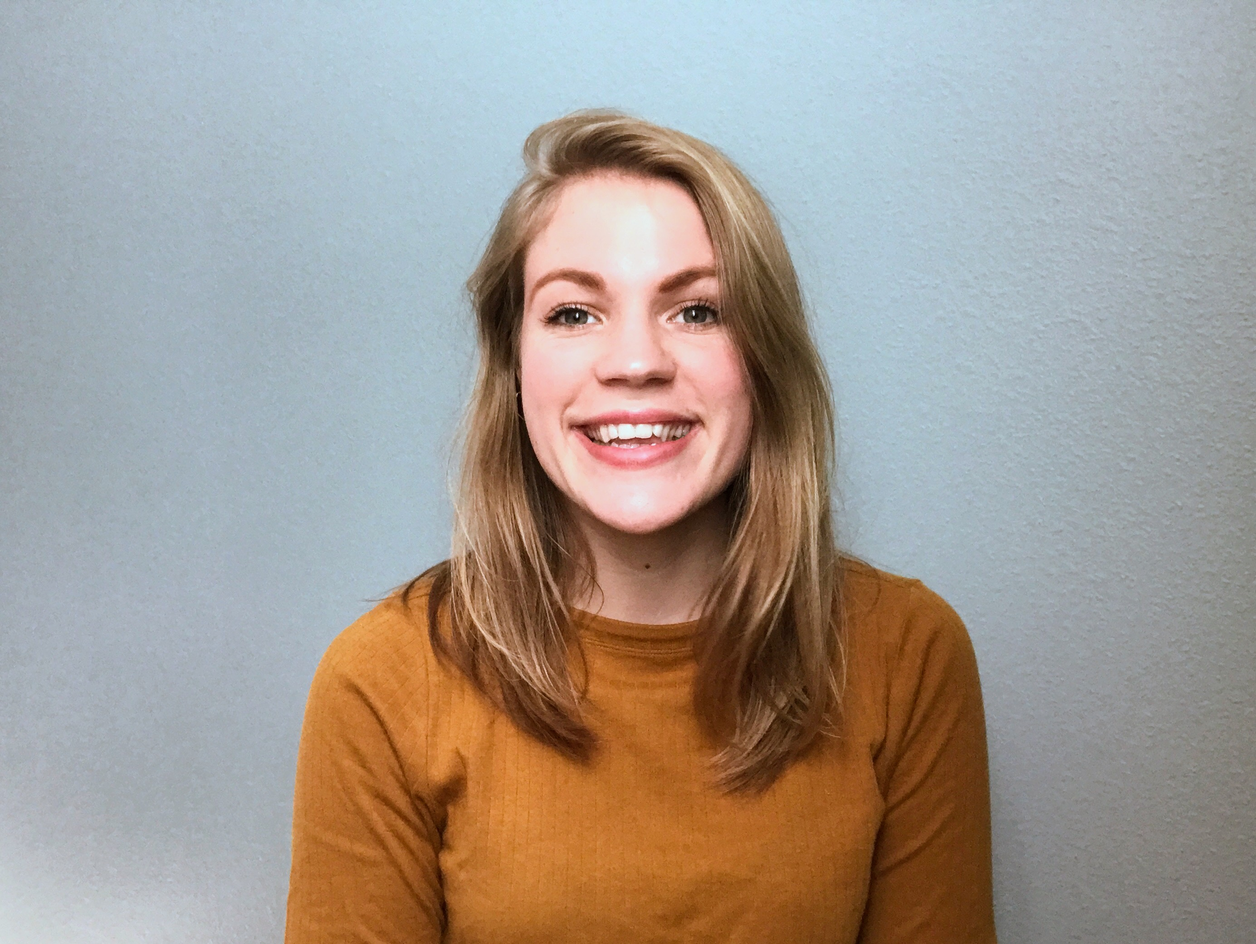
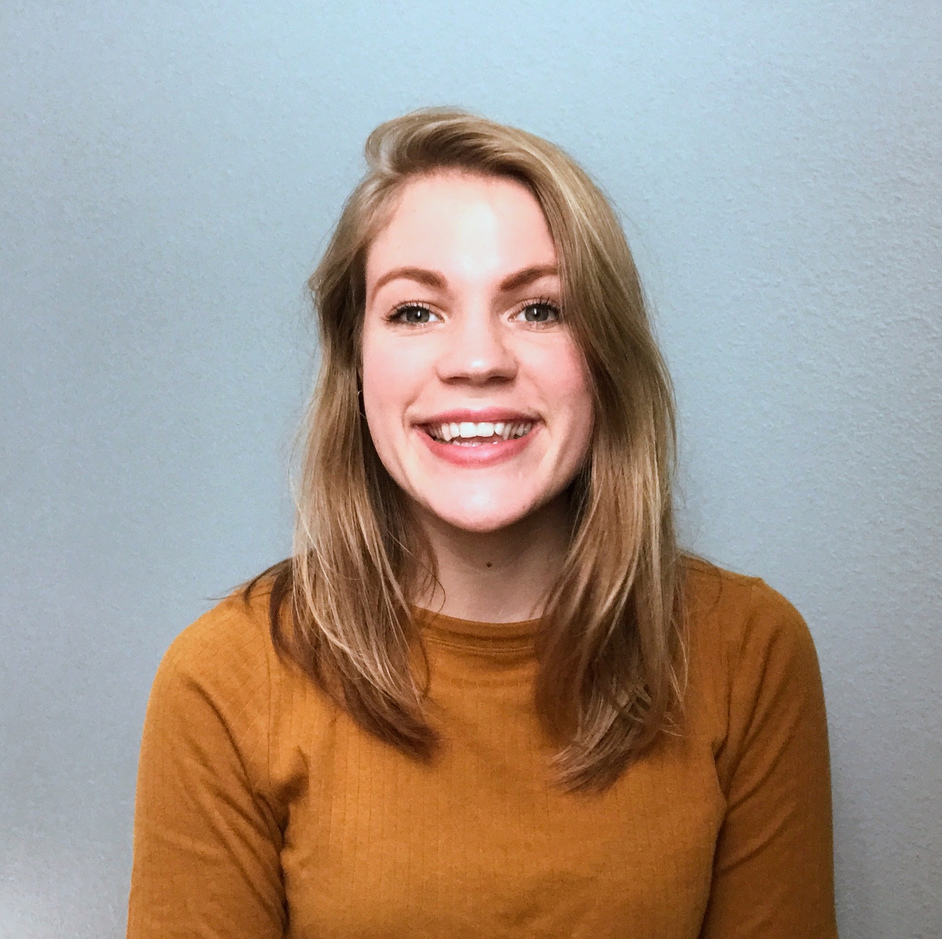
Updates to HTML/CSS and Photo

diff --git a/index.html b/index.html
@@ -10,19 +10,25 @@
             <h1>Hi! HELLO! Hi!</h1>
         </header>
         
-        <img src="img/IMG-9509.JPG" alt="Photo of Jessica" />
+        
 
-        <h2>Jessica Lovell</h2>
-        <h3>Seattle, WA</h3>
-        <p>jsdhvkjnv iha lsdkhvhvjdnvjhd kjvifvdfvkajndv  kjdsnjndvcnv advkjdn vkjadhvjdnv kmasdn vkjfnkvjldfkvj words here words here words here blah blah blah blah.</p>
-
-        <div class="testimonials">
-            <ol>
-                <li>Nice things about jessica.</li>
-                <li>Even nicer things about jessica.</li>
-                <li>Jessica is the sweetest person I know, and the best at sharing. --Jessica's mom</li>
+        <article>
+                <hgroup>
+            <img src="img/IMG-9509.JPG" alt="Photo of Jessica" />
+            <h2>Jessica Lovell</h2>
+                <h3>Seattle, WA</h3>
+            </hgroup>
+            
+            <p>jsdhvkjnv iha lsdkhvhvjdnvjhd kjvifvdfvkajndv  kjdsnjndvcnv advkjdn vkjadhvjdnv kmasdn vkjfnkvjldfkvj words here words here words here blah blah blah blah.</p>
+            
+            <div class="testimonials">
+                <ol>
+                    <li>"Jessica is amazing. But I guess this isn’t an announcement since it’s obvious to anyone around her." </li>
+                    <li>Even nicer things about jessica. Even nicer things about jessica. Even nicer things about jessica. Even nicer things about jessica.</li>
+                    <li>Jessica is the sweetest person I know, and the best at sharing. Jessica is the sweetest person I know, and the best at sharing. Jessica is the sweetest person I know, and the best at sharing. --Jessica's mom</li>
                 </ol>
-        </div>
+            </div>
+        </article>
  
 
     <!-- <script src="js/app.js" type="text/javascript"> </script> -->

diff --git a/css/style.css b/css/style.css
@@ -1,27 +1,52 @@
 body {
-    color: whitesmoke;
-    background: rgb(177, 238, 188);
-    font-family: Georgia, Times, serif;
-    line-height: 1.4em;
-    margin: 30px auto;
-    display: block;
-}
-header, h1 {
-    height: 75px;
-    font-size: 40px;
-}
-section, article, hgroup, h2, h3, h4 {
+    background: #ECECEC;
+    font-family: sans-serif, Times, sans-serif;
+    margin: auto;
+    border: 20px dotted;
+    padding: 20px;
+    width: 70%;
+    text-align: center;
+    max-width: 700px;
+    
+  }
+  p{
+    background: #F3D250;
+    padding: 10px 30px 30px 30px;
+  }
+  hgroup{
+    background: #F3D250;
+    padding: 20px; 
+  }
+  .testimonials{
+    background: #F78888;
+    padding: 30px;
+  }
+  header{
+    font-size: 50px;
+    border: 10px dotted white;
+    padding: 30px;
+    background: #90ccF4;
+  }
+  
+  h2 {
     font-size: 30px;
-    width: 50%;
-    margin:0; 
-}
-p {
-    font-size: 20px;
-
-}
-
-
+  }
+  
+  h3 {
+    font: 20px;
+    font-style: italic;
+  }
+  ol{
+    display: inline-block;
+  }
+  li:not(:last-child){
+    border-bottom: 7px dotted;    
+  }
+  li{
+    padding: 20px;
+  }
 img {
     width: 300px;
-    margin: 8px;
+    margin: 30px;
+    border-radius: 50%;
 }

diff --git a/js/app.js b/js/app.js
@@ -45,7 +45,7 @@ function mainQuestions(){
 
     case 6: //for question #7
       j = 1;
-      //this loop gives the user 6 attempts to guessmy favorite flavor
+      //this loop gives the user 6 attempts to guess my favorite flavor
       while (j <= 6){
         var userCheck = values.indexOf(userInput); //check if the input is in the array
         console.log('User Index: '+ userCheck);
